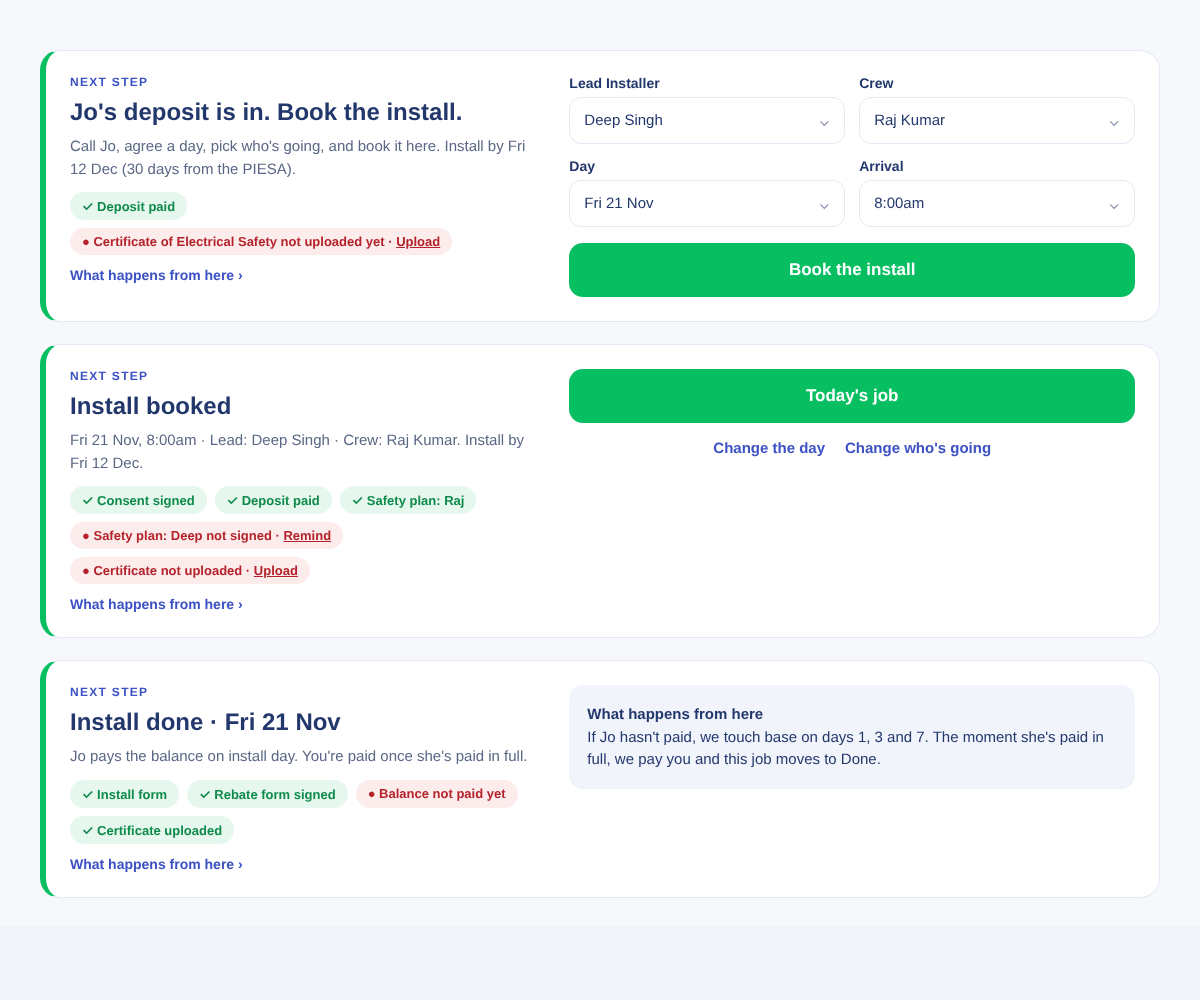
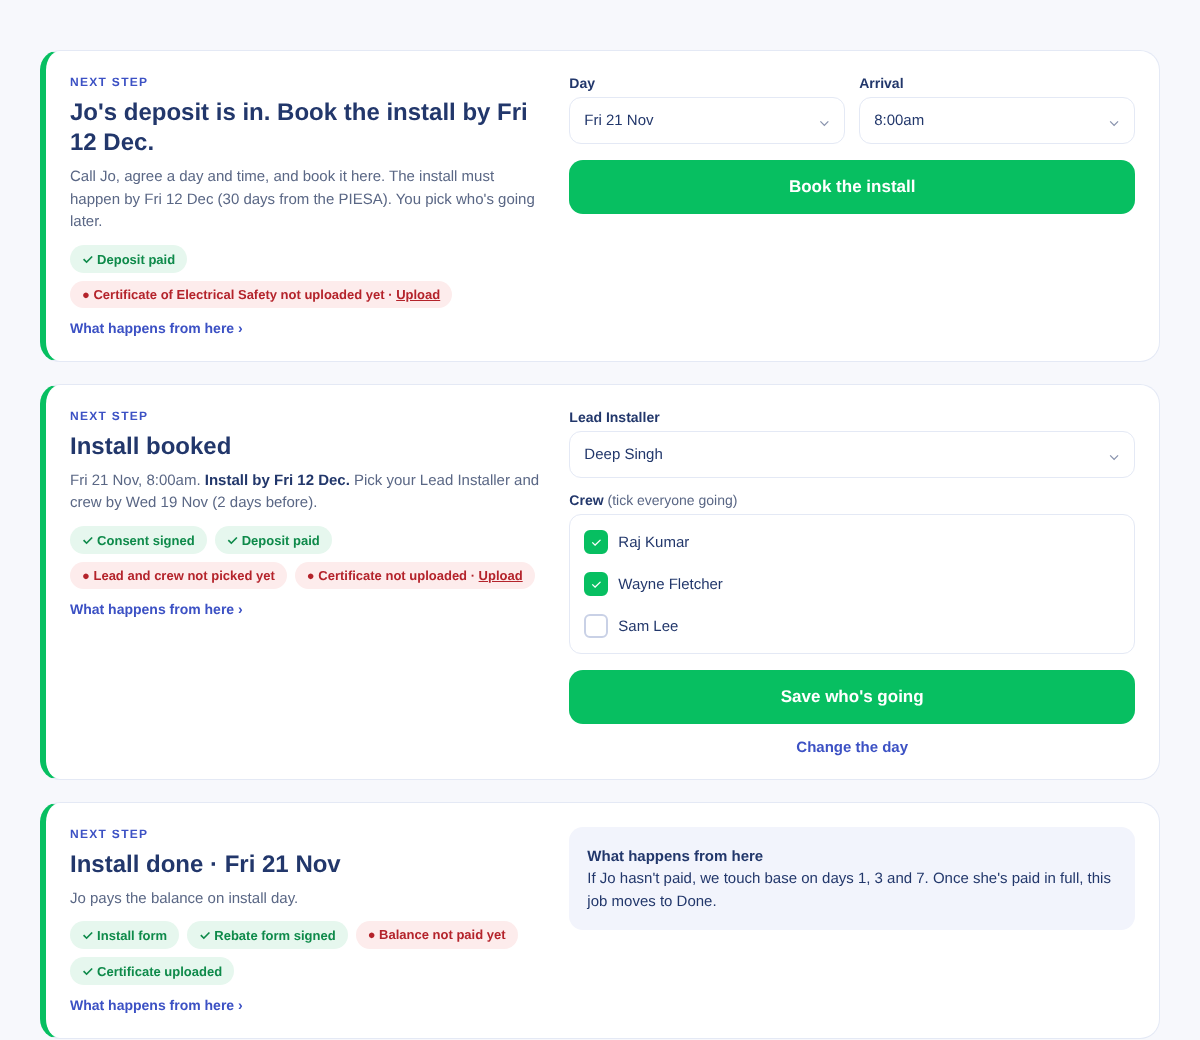
Handoff: steps 7–9 redone and approved (Lead/crew picked later, install-by hard block)
Claude-Session: https://claude.ai/code/session_01CfFAPCg3hqEpCjjZ31BCtm

diff --git a/docs/superpowers/mockups/2026-11-06-installer-portal/s789.html b/docs/superpowers/mockups/2026-11-06-installer-portal/s789.html
@@ -1,17 +1,17 @@
 <!doctype html><html><head><meta charset="utf-8"><style>body{margin:0;background:#F2F4FC} a{text-decoration:none;color:inherit}</style></head><body>
 <div style="width:1200px;margin:0 auto;background:#F7F8FC;min-height:800px;font-family:Figtree,Arial,Helvetica,sans-serif;color:#22376B;"><div style="padding:28px 24px;max-width:1120px;margin:0 auto;"><div style="margin-top:22px;"><div style="background:#fff;border:1px solid #E4E9F5;border-radius:20px;padding:24px;border-left:6px solid #07BF61;"><div style="display:flex;gap:28px;align-items:flex-start;flex-wrap:wrap;"><div style="flex:1;min-width:260px;"><div style="font-size:12px;font-weight:700;letter-spacing:1.3px;text-transform:uppercase;color:#3C51C4;">Next step</div>
-<div style="font-family:Outfit,Figtree,Arial,sans-serif;font-size:24px;font-weight:600;margin-top:8px;line-height:1.25;">Jo's deposit is in. Book the install.</div>
-<div style="font-size:15px;color:#5A6785;margin-top:8px;line-height:1.5;">Call Jo, agree a day, pick who's going, and book it here. Install by Fri 12 Dec (30 days from the PIESA).</div>
+<div style="font-family:Outfit,Figtree,Arial,sans-serif;font-size:24px;font-weight:600;margin-top:8px;line-height:1.25;">Jo's deposit is in. Book the install by Fri 12 Dec.</div>
+<div style="font-size:15px;color:#5A6785;margin-top:8px;line-height:1.5;">Call Jo, agree a day and time, and book it here. The install must happen by Fri 12 Dec (30 days from the PIESA). You pick who's going later.</div>
 <div style="display:flex;gap:8px;margin-top:12px;flex-wrap:wrap;"><span style="font-size:13px;font-weight:600;color:#0E8A4A;background:#E6F7EE;border-radius:999px;padding:6px 12px;">✓ Deposit paid</span><span style="font-size:13px;font-weight:600;color:#B4232B;background:#FDECEC;border-radius:999px;padding:6px 12px;">● Certificate of Electrical Safety not uploaded yet · <u>Upload</u></span></div>
 <a href="#" style="display:inline-block;margin-top:12px;font-size:14px;font-weight:600;color:#3C51C4;">What happens from here ›</a></div>
-<div style="flex:1.2;min-width:280px;"><div style="display:flex;gap:14px;flex-wrap:wrap;"><label style="display:flex;flex-direction:column;gap:6px;font-size:14px;font-weight:600;flex:1;min-width:140px;"><span>Lead Installer</span><span style="border:1px solid #E4E9F5;border-radius:12px;padding:13px 14px;font-weight:500;color:#22376B;font-size:15px;background:#fff;display:flex;justify-content:space-between;"><span>Deep Singh</span><span style="color:#8A94AE">⌄</span></span></label><label style="display:flex;flex-direction:column;gap:6px;font-size:14px;font-weight:600;flex:1;min-width:140px;"><span>Crew</span><span style="border:1px solid #E4E9F5;border-radius:12px;padding:13px 14px;font-weight:500;color:#22376B;font-size:15px;background:#fff;display:flex;justify-content:space-between;"><span>Raj Kumar</span><span style="color:#8A94AE">⌄</span></span></label></div><div style="display:flex;gap:14px;margin-top:14px;flex-wrap:wrap;"><label style="display:flex;flex-direction:column;gap:6px;font-size:14px;font-weight:600;flex:1;min-width:140px;"><span>Day</span><span style="border:1px solid #E4E9F5;border-radius:12px;padding:13px 14px;font-weight:500;color:#22376B;font-size:15px;background:#fff;display:flex;justify-content:space-between;"><span>Fri 21 Nov</span><span style="color:#8A94AE">⌄</span></span></label><label style="display:flex;flex-direction:column;gap:6px;font-size:14px;font-weight:600;flex:1;min-width:140px;"><span>Arrival</span><span style="border:1px solid #E4E9F5;border-radius:12px;padding:13px 14px;font-weight:500;color:#22376B;font-size:15px;background:#fff;display:flex;justify-content:space-between;"><span>8:00am</span><span style="color:#8A94AE">⌄</span></span></label></div><a href="#" style="margin-top:16px;background:#07BF61;color:#fff;border-radius:14px;min-height:54px;display:flex;align-items:center;justify-content:center;font-size:17px;font-weight:600;">Book the install</a></div></div></div></div><div style="margin-top:22px;"><div style="background:#fff;border:1px solid #E4E9F5;border-radius:20px;padding:24px;border-left:6px solid #07BF61;"><div style="display:flex;gap:28px;align-items:flex-start;flex-wrap:wrap;"><div style="flex:1;min-width:260px;"><div style="font-size:12px;font-weight:700;letter-spacing:1.3px;text-transform:uppercase;color:#3C51C4;">Next step</div>
+<div style="flex:1.2;min-width:280px;"><div style="display:flex;gap:14px;flex-wrap:wrap;"><label style="display:flex;flex-direction:column;gap:6px;font-size:14px;font-weight:600;flex:1;min-width:140px;"><span>Day</span><span style="border:1px solid #E4E9F5;border-radius:12px;padding:13px 14px;font-weight:500;color:#22376B;font-size:15px;background:#fff;display:flex;justify-content:space-between;"><span>Fri 21 Nov</span><span style="color:#8A94AE">⌄</span></span></label><label style="display:flex;flex-direction:column;gap:6px;font-size:14px;font-weight:600;flex:1;min-width:140px;"><span>Arrival</span><span style="border:1px solid #E4E9F5;border-radius:12px;padding:13px 14px;font-weight:500;color:#22376B;font-size:15px;background:#fff;display:flex;justify-content:space-between;"><span>8:00am</span><span style="color:#8A94AE">⌄</span></span></label></div><a href="#" style="margin-top:16px;background:#07BF61;color:#fff;border-radius:14px;min-height:54px;display:flex;align-items:center;justify-content:center;font-size:17px;font-weight:600;">Book the install</a></div></div></div></div><div style="margin-top:22px;"><div style="background:#fff;border:1px solid #E4E9F5;border-radius:20px;padding:24px;border-left:6px solid #07BF61;"><div style="display:flex;gap:28px;align-items:flex-start;flex-wrap:wrap;"><div style="flex:1;min-width:260px;"><div style="font-size:12px;font-weight:700;letter-spacing:1.3px;text-transform:uppercase;color:#3C51C4;">Next step</div>
 <div style="font-family:Outfit,Figtree,Arial,sans-serif;font-size:24px;font-weight:600;margin-top:8px;line-height:1.25;">Install booked</div>
-<div style="font-size:15px;color:#5A6785;margin-top:8px;line-height:1.5;">Fri 21 Nov, 8:00am · Lead: Deep Singh · Crew: Raj Kumar. Install by Fri 12 Dec.</div>
-<div style="display:flex;gap:8px;margin-top:12px;flex-wrap:wrap;"><span style="font-size:13px;font-weight:600;color:#0E8A4A;background:#E6F7EE;border-radius:999px;padding:6px 12px;">✓ Consent signed</span><span style="font-size:13px;font-weight:600;color:#0E8A4A;background:#E6F7EE;border-radius:999px;padding:6px 12px;">✓ Deposit paid</span><span style="font-size:13px;font-weight:600;color:#0E8A4A;background:#E6F7EE;border-radius:999px;padding:6px 12px;">✓ Safety plan: Raj</span><span style="font-size:13px;font-weight:600;color:#B4232B;background:#FDECEC;border-radius:999px;padding:6px 12px;">● Safety plan: Deep not signed · <u>Remind</u></span><span style="font-size:13px;font-weight:600;color:#B4232B;background:#FDECEC;border-radius:999px;padding:6px 12px;">● Certificate not uploaded · <u>Upload</u></span></div>
+<div style="font-size:15px;color:#5A6785;margin-top:8px;line-height:1.5;">Fri 21 Nov, 8:00am. <b style="color:#22376B">Install by Fri 12 Dec.</b> Pick your Lead Installer and crew by Wed 19 Nov (2 days before).</div>
+<div style="display:flex;gap:8px;margin-top:12px;flex-wrap:wrap;"><span style="font-size:13px;font-weight:600;color:#0E8A4A;background:#E6F7EE;border-radius:999px;padding:6px 12px;">✓ Consent signed</span><span style="font-size:13px;font-weight:600;color:#0E8A4A;background:#E6F7EE;border-radius:999px;padding:6px 12px;">✓ Deposit paid</span><span style="font-size:13px;font-weight:600;color:#B4232B;background:#FDECEC;border-radius:999px;padding:6px 12px;">● Lead and crew not picked yet</span><span style="font-size:13px;font-weight:600;color:#B4232B;background:#FDECEC;border-radius:999px;padding:6px 12px;">● Certificate not uploaded · <u>Upload</u></span></div>
 <a href="#" style="display:inline-block;margin-top:12px;font-size:14px;font-weight:600;color:#3C51C4;">What happens from here ›</a></div>
-<div style="flex:1.2;min-width:280px;"><a href="#" style="background:#07BF61;color:#fff;border-radius:14px;min-height:54px;display:flex;align-items:center;justify-content:center;font-size:17px;font-weight:600;">Today's job</a><div style="display:flex;gap:20px;margin-top:16px;font-size:15px;font-weight:600;color:#3C51C4;justify-content:center;"><a href="#">Change the day</a><a href="#">Change who's going</a></div></div></div></div></div><div style="margin-top:22px;"><div style="background:#fff;border:1px solid #E4E9F5;border-radius:20px;padding:24px;border-left:6px solid #07BF61;"><div style="display:flex;gap:28px;align-items:flex-start;flex-wrap:wrap;"><div style="flex:1;min-width:260px;"><div style="font-size:12px;font-weight:700;letter-spacing:1.3px;text-transform:uppercase;color:#3C51C4;">Next step</div>
+<div style="flex:1.2;min-width:280px;"><label style="display:flex;flex-direction:column;gap:6px;font-size:14px;font-weight:600;"><span>Lead Installer</span><span style="border:1px solid #E4E9F5;border-radius:12px;padding:13px 14px;font-weight:500;color:#22376B;font-size:15px;background:#fff;display:flex;justify-content:space-between;"><span>Deep Singh</span><span style="color:#8A94AE">⌄</span></span></label><div style="margin-top:14px;font-size:14px;font-weight:600;">Crew <span style="font-weight:500;color:#5A6785">(tick everyone going)</span></div><div style="border:1px solid #E4E9F5;border-radius:12px;padding:6px 14px;margin-top:6px;"><div style="display:flex;align-items:center;gap:10px;padding:9px 0;font-size:15px;font-weight:500;"><span style="width:20px;height:20px;border-radius:6px;border:2px solid #07BF61;background:#07BF61;color:#fff;font-size:13px;display:flex;align-items:center;justify-content:center;">✓</span>Raj Kumar</div><div style="display:flex;align-items:center;gap:10px;padding:9px 0;font-size:15px;font-weight:500;"><span style="width:20px;height:20px;border-radius:6px;border:2px solid #07BF61;background:#07BF61;color:#fff;font-size:13px;display:flex;align-items:center;justify-content:center;">✓</span>Wayne Fletcher</div><div style="display:flex;align-items:center;gap:10px;padding:9px 0;font-size:15px;font-weight:500;"><span style="width:20px;height:20px;border-radius:6px;border:2px solid #C9D1E6;background:#fff;color:#fff;font-size:13px;display:flex;align-items:center;justify-content:center;"></span>Sam Lee</div></div><a href="#" style="margin-top:16px;background:#07BF61;color:#fff;border-radius:14px;min-height:54px;display:flex;align-items:center;justify-content:center;font-size:17px;font-weight:600;">Save who's going</a><div style="display:flex;gap:20px;margin-top:14px;font-size:15px;font-weight:600;color:#3C51C4;justify-content:center;"><a href="#">Change the day</a></div></div></div></div></div><div style="margin-top:22px;"><div style="background:#fff;border:1px solid #E4E9F5;border-radius:20px;padding:24px;border-left:6px solid #07BF61;"><div style="display:flex;gap:28px;align-items:flex-start;flex-wrap:wrap;"><div style="flex:1;min-width:260px;"><div style="font-size:12px;font-weight:700;letter-spacing:1.3px;text-transform:uppercase;color:#3C51C4;">Next step</div>
 <div style="font-family:Outfit,Figtree,Arial,sans-serif;font-size:24px;font-weight:600;margin-top:8px;line-height:1.25;">Install done · Fri 21 Nov</div>
-<div style="font-size:15px;color:#5A6785;margin-top:8px;line-height:1.5;">Jo pays the balance on install day. You're paid once she's paid in full.</div>
+<div style="font-size:15px;color:#5A6785;margin-top:8px;line-height:1.5;">Jo pays the balance on install day.</div>
 <div style="display:flex;gap:8px;margin-top:12px;flex-wrap:wrap;"><span style="font-size:13px;font-weight:600;color:#0E8A4A;background:#E6F7EE;border-radius:999px;padding:6px 12px;">✓ Install form</span><span style="font-size:13px;font-weight:600;color:#0E8A4A;background:#E6F7EE;border-radius:999px;padding:6px 12px;">✓ Rebate form signed</span><span style="font-size:13px;font-weight:600;color:#B4232B;background:#FDECEC;border-radius:999px;padding:6px 12px;">● Balance not paid yet</span><span style="font-size:13px;font-weight:600;color:#0E8A4A;background:#E6F7EE;border-radius:999px;padding:6px 12px;">✓ Certificate uploaded</span></div>
 <a href="#" style="display:inline-block;margin-top:12px;font-size:14px;font-weight:600;color:#3C51C4;">What happens from here ›</a></div>
-<div style="flex:1.2;min-width:280px;"><div style="background:#F2F4FC;border-radius:14px;padding:18px;font-size:15px;line-height:1.5;color:#22376B;"><b>What happens from here</b><br>If Jo hasn't paid, we touch base on days 1, 3 and 7. The moment she's paid in full, we pay you and this job moves to Done.</div></div></div></div></div></div></div></body></html>
+<div style="flex:1.2;min-width:280px;"><div style="background:#F2F4FC;border-radius:14px;padding:18px;font-size:15px;line-height:1.5;color:#22376B;"><b>What happens from here</b><br>If Jo hasn't paid, we touch base on days 1, 3 and 7. Once she's paid in full, this job moves to Done.</div></div></div></div></div></div></div></body></html>

diff --git a/docs/superpowers/handoffs/2026-11-06-installer-portal-redesign-handoff.md b/docs/superpowers/handoffs/2026-11-06-installer-portal-redesign-handoff.md
@@ -60,6 +60,17 @@ Palette/fonts from `docs/templates/installer/portal/M7-business.html` (#22376B i
 
 **Paid** (DRAFT): "Paid ✓ Mon 24 Nov · $2,500.00."
 
+### 6 Nov 11:30 — steps 7–9 REDONE and APPROVED (replace the step 7/8/9/Paid text above)
+
+- Lead and crew are picked on Fridays for the next week, so **booking the install asks for Day + Arrival only**. Crew can be any number of people (tick boxes).
+- **Step 7 – title:** "Jo's deposit is in. Book the install by Fri 12 Dec." Text: "Call Jo, agree a day and time, and book it here. The install must happen by Fri 12 Dec (30 days from the PIESA). You pick who's going later." Fields: Day · Arrival. Button: Book the install.
+- **Days after the install-by date can't be picked (hard block).** Message: after Fri 12 Dec a new PIESA is needed, call Home Insulation Victoria.
+- **Step 8 – Install booked:** "Fri 21 Nov, 8:00am. Install by Fri 12 Dec. Pick your Lead Installer and crew by Wed 19 Nov (2 days before)." Pick one Lead Installer, tick any number of crew. Button: Save who's going. Link: Change the day. If they aren't picked, the installer office is emailed 2 days before the install.
+- **Step 9 – Install done · Fri 21 Nov:** "Jo pays the balance on install day." (no "you're paid" line). What happens from here: "If Jo hasn't paid, we touch base on days 1, 3 and 7. Once she's paid in full, this job moves to Done."
+- Mock-up updated: `s789.png`. The Paid box wasn't discussed again.
+
+**Next:** journey 2 step 1.
+
 ## Journeys 2 and 3 — still to dictate
 
 Today's words on our-lead jobs (for Jo to redo, one step at a time):
